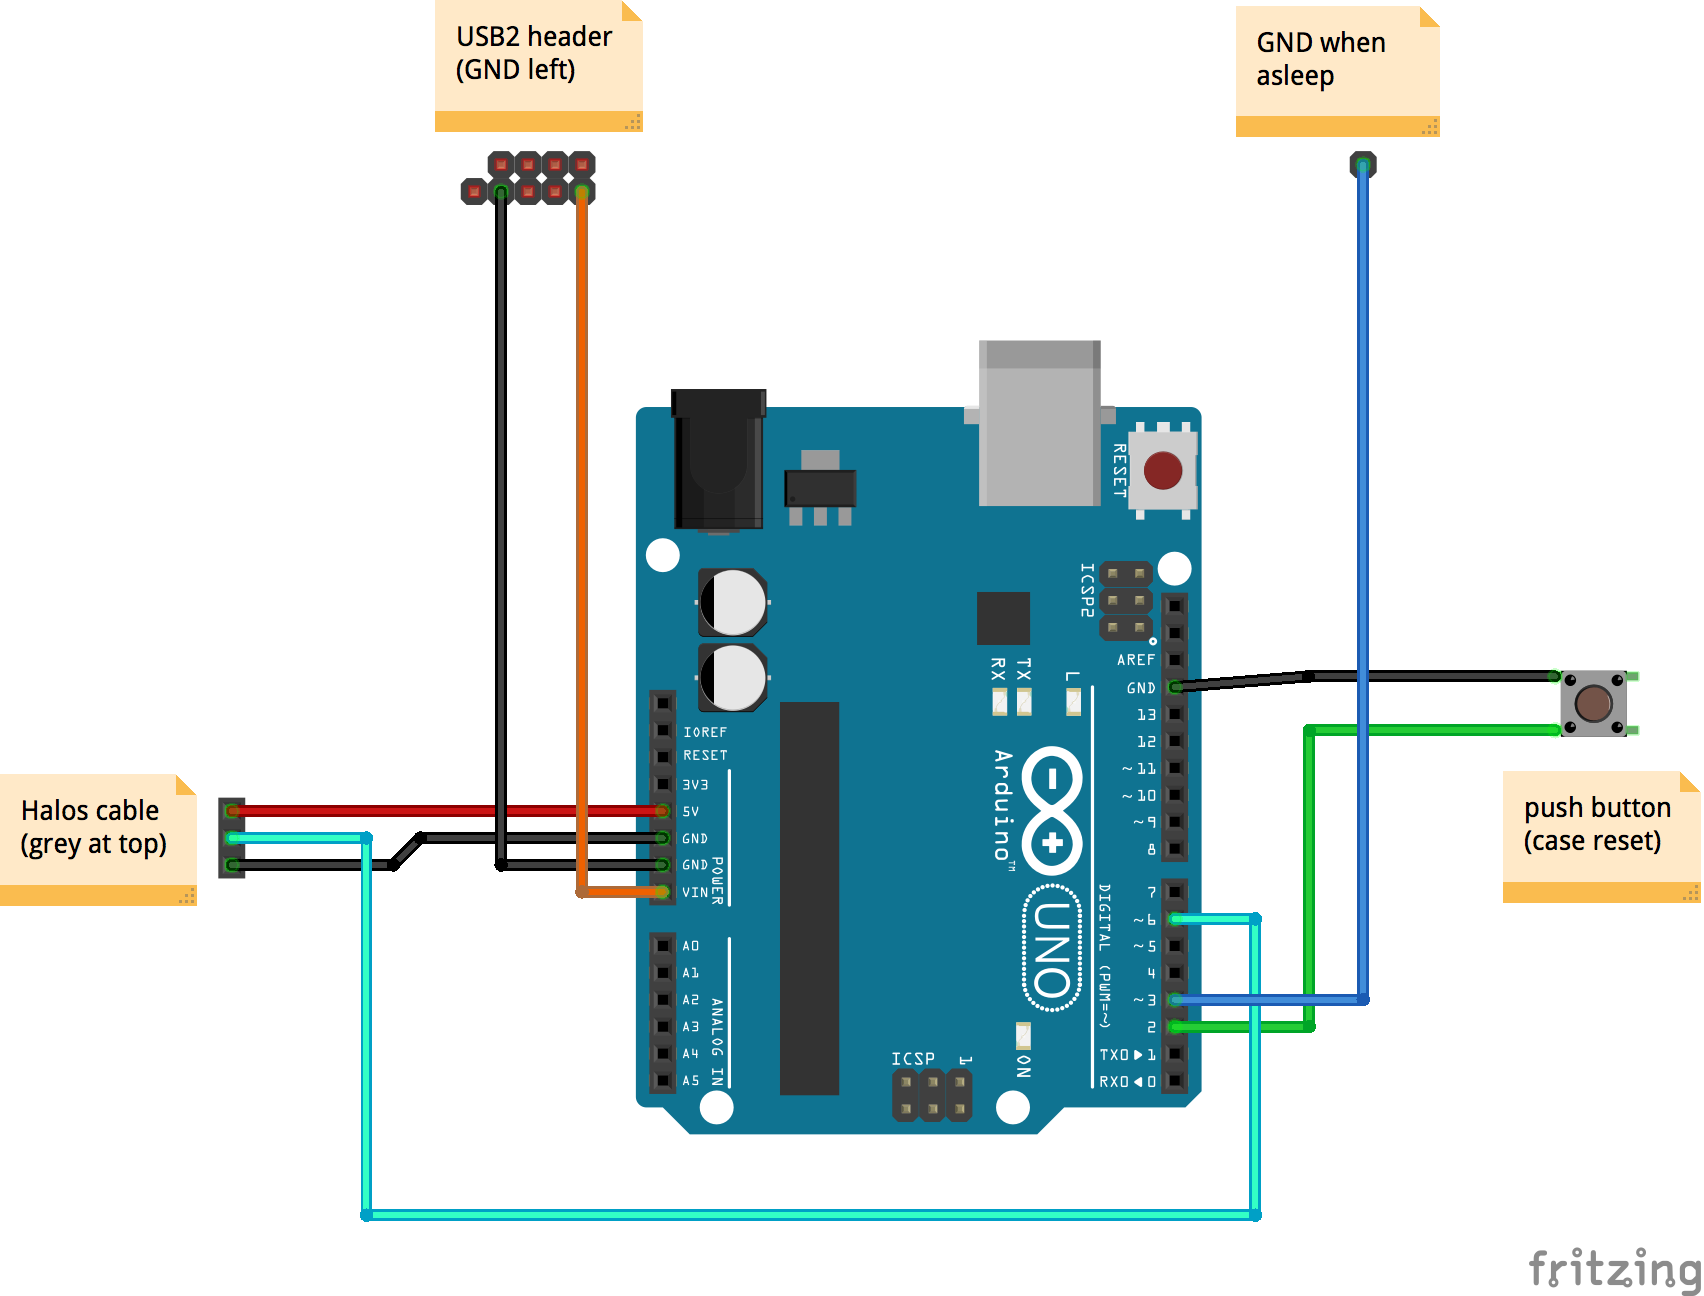
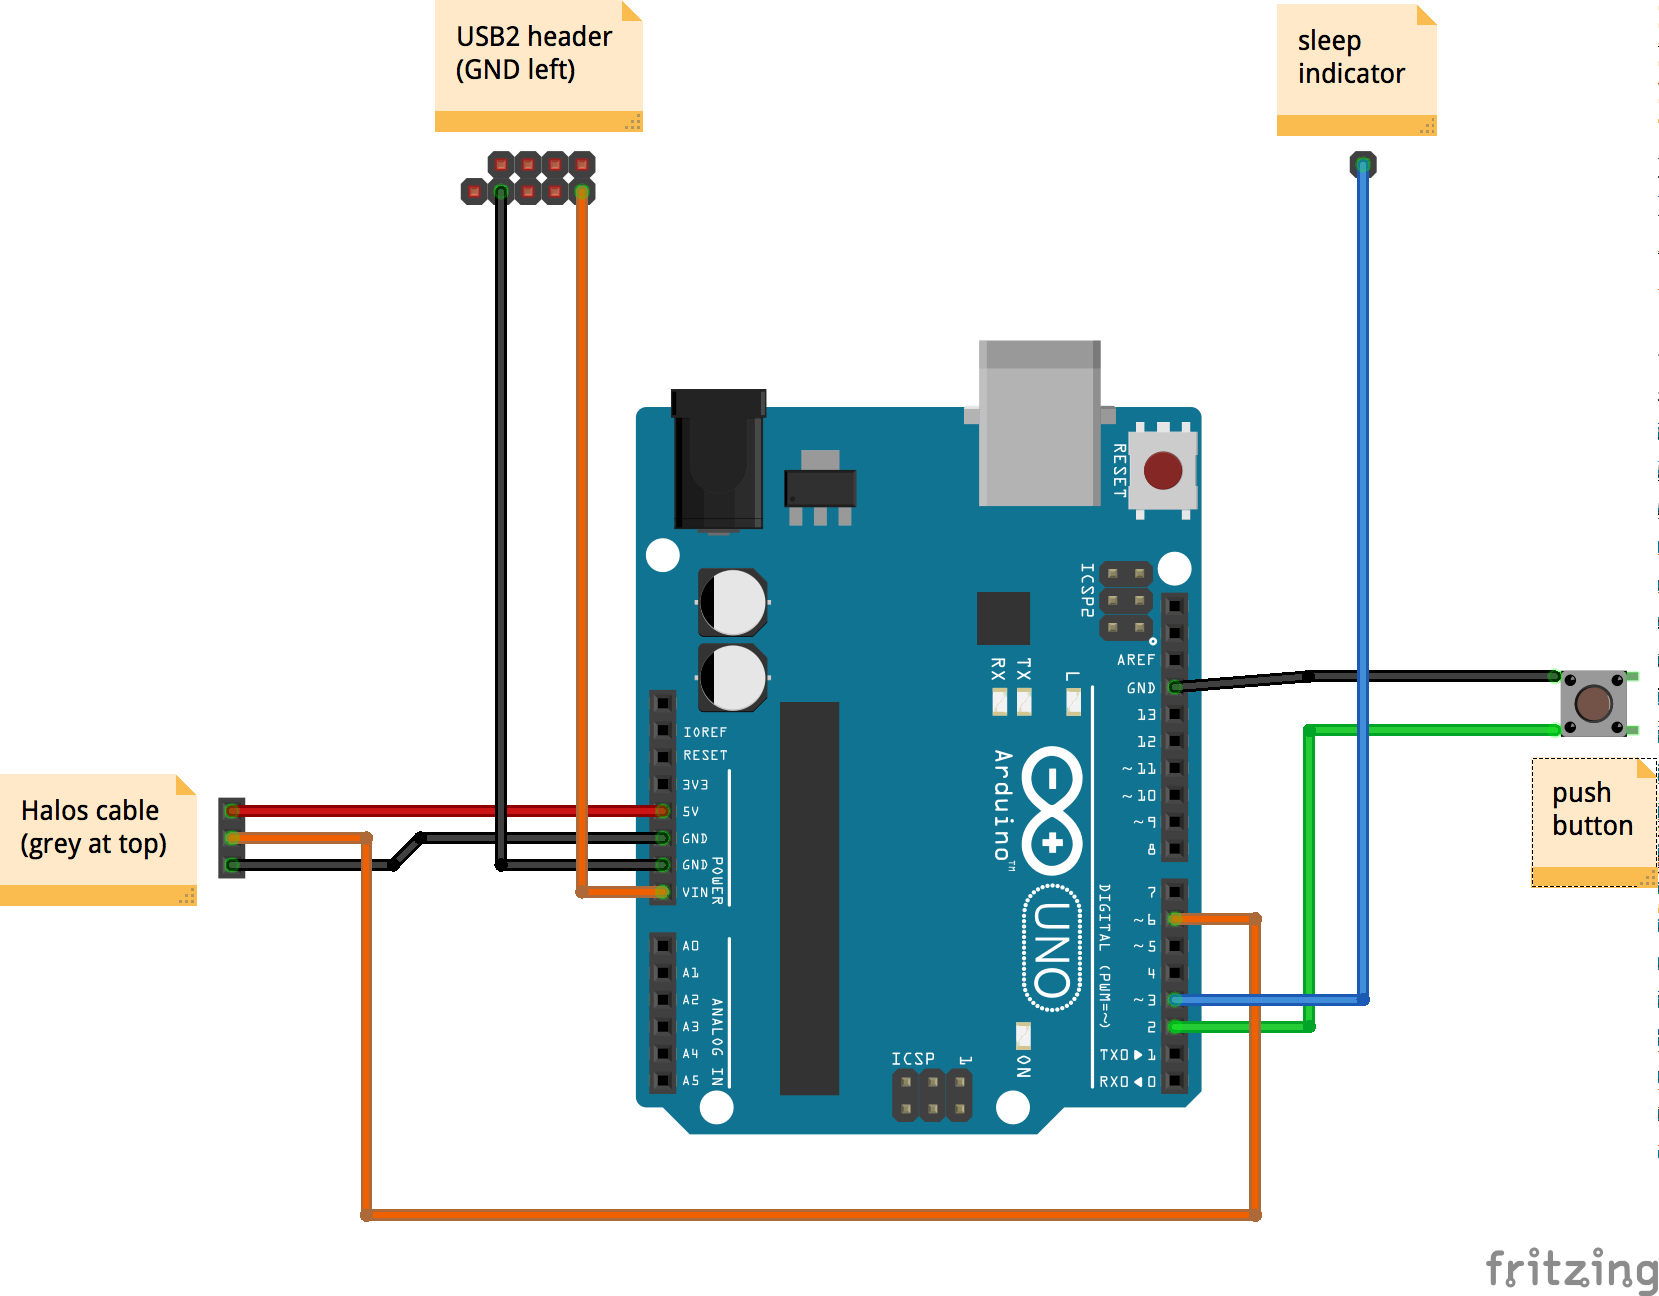
Clarified documentation and comments.

diff --git a/Patterns.cpp b/Patterns.cpp
@@ -6,44 +6,53 @@ extern Adafruit_NeoPixel frame;
 
 // HELPER FUNCTIONS
 
+// Values for clockwise and counter-clockwise
 #define CW 0
 #define CCW 1
 
+// Macros to unpack a colour in 32-bit representation
 #define R(c) ((c) >> 16 & 0xFF)
 #define G(c) ((c) >> 8 & 0xFF)
 #define B(c) ((c) & 0xFF)
 
+// Wrapper for merging colour components into 32-bit representation
 uint32_t rgb(uint8_t r, uint8_t g, uint8_t b) {
   return frame.Color(r, g, b);
 }
 
+// Wrapper for merging colour components while applying a gamma function
 uint32_t rgb_g(uint8_t r, uint8_t g, uint8_t b) {
   return frame.Color(frame.gamma8(r), frame.gamma8(g), frame.gamma8(b));
 }
 
+// Mixes two colour channels (c1 for r = 0 to c2 for r = 1000)
 uint32_t mixChannel(uint32_t c1, uint32_t c2, uint16_t r) {
   return (c1 > c2) ? (c1 - (c1-c2)*r/1000) 
                    : (c2 - (c2-c1)*(1000-r)/1000);
 }
 
+// Mixes two colours (c1 for r = 0 to c2 for r = 1000)
 uint32_t mix(uint32_t c1, uint32_t c2, uint16_t r) {
   return rgb(mixChannel(R(c1), R(c2), r), 
              mixChannel(G(c1), G(c2), r), 
              mixChannel(B(c1), B(c2), r));
 }
 
+// Mixes two colours and applies a gamma function to result
 uint32_t mix_g(uint32_t c1, uint32_t c2, uint16_t r) {
   return rgb_g(mixChannel(R(c1), R(c2), r), 
                mixChannel(G(c1), G(c2), r), 
                mixChannel(B(c1), B(c2), r));
 }
 
+// Shifts idx by val in direction dir, limiting result to size of frame
 uint8_t shift(int idx, uint8_t val, uint8_t dir) {
   uint16_t n = frame.numPixels();
   uint8_t result = (idx+val) % n;
   return (dir == CW) ? result : (n-1) - result;
 }
 
+// Increments and returns an offset, limited to size of frame
 uint8_t incOffset() {
   static uint8_t offset = 0;
   offset = (offset+1) % frame.numPixels();
@@ -53,7 +62,7 @@ uint8_t incOffset() {
 
 // PRIMITIVES
 
-// Fills LEDs with the given colour
+// Fills LEDs with a colour
 // c: colour
 void fill(uint32_t c, uint16_t wait) {
   uint16_t n = frame.numPixels();

diff --git a/README.md b/README.md
@@ -1,13 +1,13 @@
 # Halos Controller
 
-This program turns an Arduino in a controller for Phanteks [Halos Digital RGB Fan Frames](http://www.phanteks.com/HalosDigital.html). It comes with ten predefined patterns, and further patterns can be created in code with the help of a number of versatile primitives. 
+This program turns an Arduino into a controller for Phanteks' [Halos Digital RGB Fan Frames](http://www.phanteks.com/HalosDigital.html). It comes with ten predefined patterns, and further patterns can be created in code with the help of a number of versatile primitives. 
 
 Provided there is a suitable source to indicate that the computer is sleeping (see below), the program renders a breathing pattern when the computer is sleeping.
 
 
 ## Wiring
 
-No warranties. The following diagram might be incorrect. I take no responsibility for any damanges caused by using the diagram and information below.
+**No warranties. The following diagram might be incorrect. I take no responsibility for any damanges caused by using the diagram and information below.**
 
 ![Wiring diagram](doc/Wiring_bb.png)
 
@@ -18,9 +18,9 @@ No warranties. The following diagram might be incorrect. I take no responsibilit
 
 An Arduino draws less than 50mA and a single Halos frame can draw up to about 380mA (my measurements, use at your own risk). A USB port provides at least 500mA. So, running the controller and one frame on a single USB port should be fine. 
 
-Depending on the BIOS/UEFI settings the computer may even provide power to the USB ports when it's off. On my mainboard this happens when the ErP power saving mode is disabled.
+Depending on the BIOS/UEFI settings the mainboard may  provide power to its USB headers and ports even when it's off. On my mainboard this happens when the ErP power saving mode is disabled. In that case the breathing light is also displayed even when the computer is off.
 
-### Halos frame
+### Halos Digital frame
 
 * grey wire from frame -> 5V
 * black center wire from frame -> pin 6
@@ -28,18 +28,12 @@ Depending on the BIOS/UEFI settings the computer may even provide power to the U
 
 ### Controls
 
-* push button (open / connect to GND) -> pin 2
-* sleep indicator (open / connect to GND) -> pin 3
+* push button (open/GND) -> pin 2
+* sleep indicator (HIGH/LOW) -> pin 3
 
-When connecting the sleep indicator pin to 5V from an internal HDD connector, e.g. molex, the pullup in the code should be removed, i.e. in that case in the `setup` function 
+The reset button can be a good choice for the push button.
 
-```pinMode(3, INPUT_PULLUP);```
-
-should be changed to 
-
-```pinMode(3, INPUT);```
-
-The reset button might be a good choice for the push button.
+The PWR or MSG LED pins on the front-panel header can be used to detect whether the computer is awake/asleep. (This is what I use.) The program assumes `LOW` = asleep, `HIGH` = awake. Another option could be the 5V pin of an internal HDD power cable. I haven't tested this, though.
 
 
 ## Required libraries
